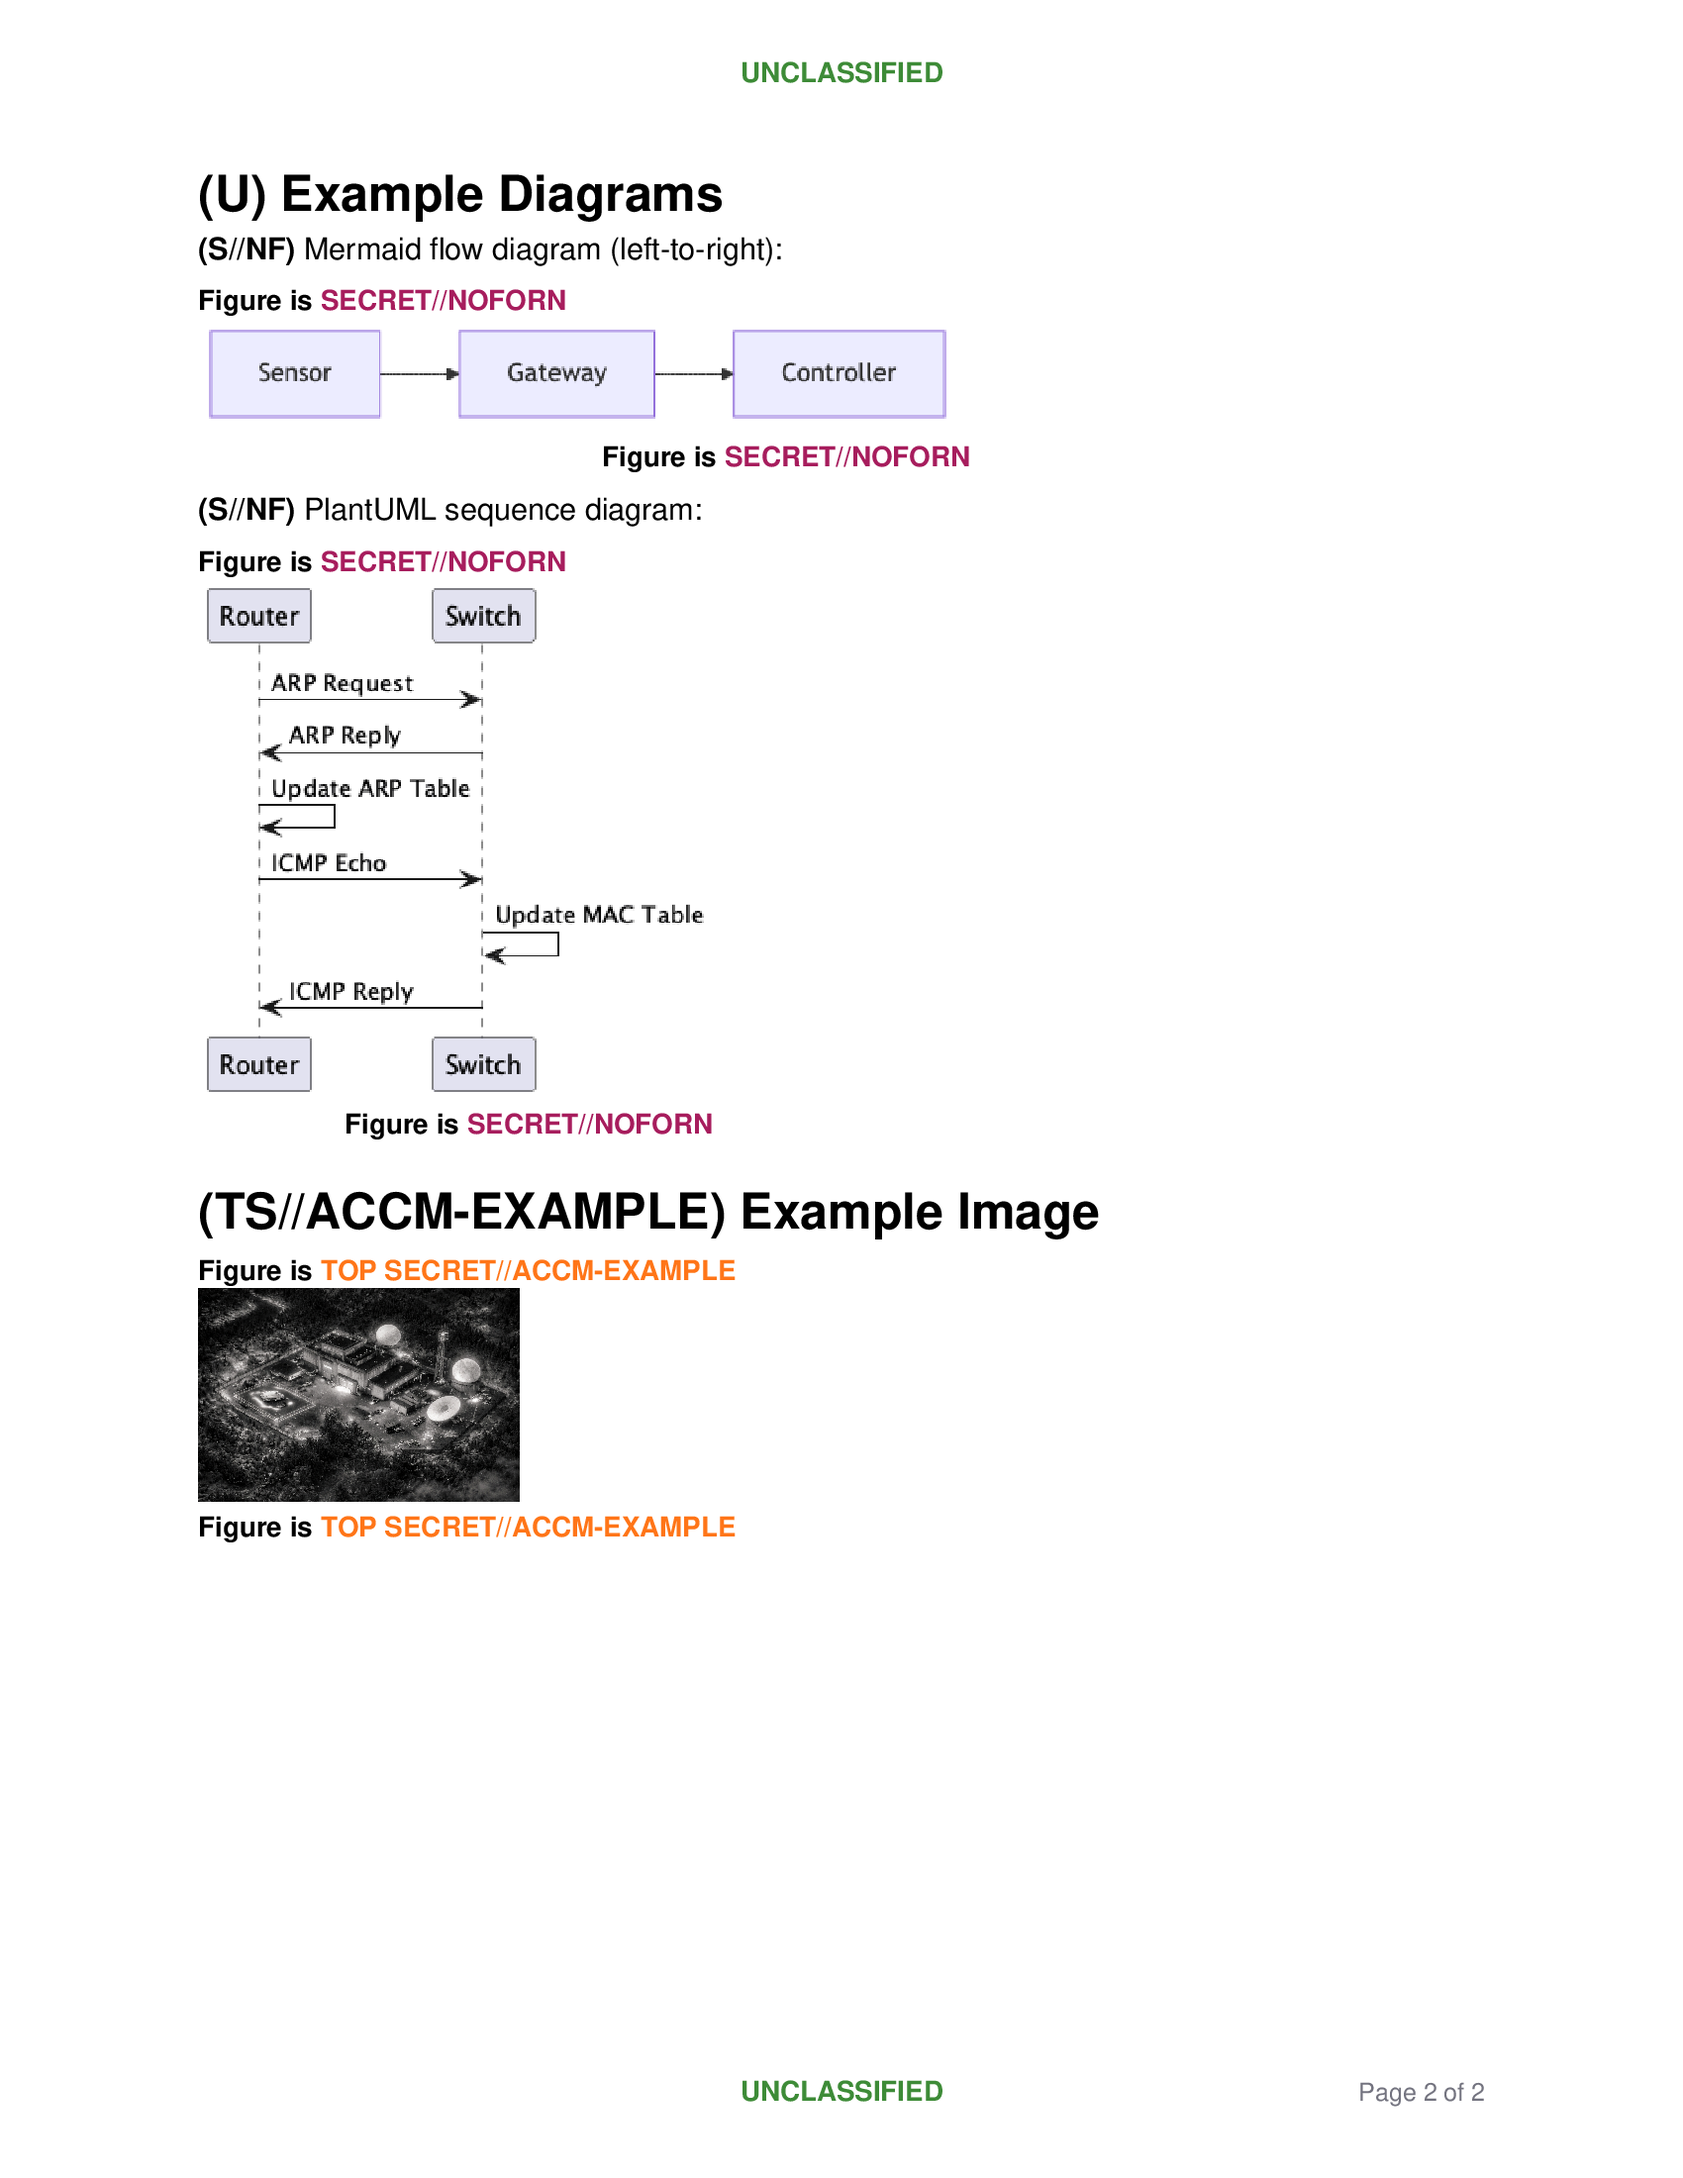
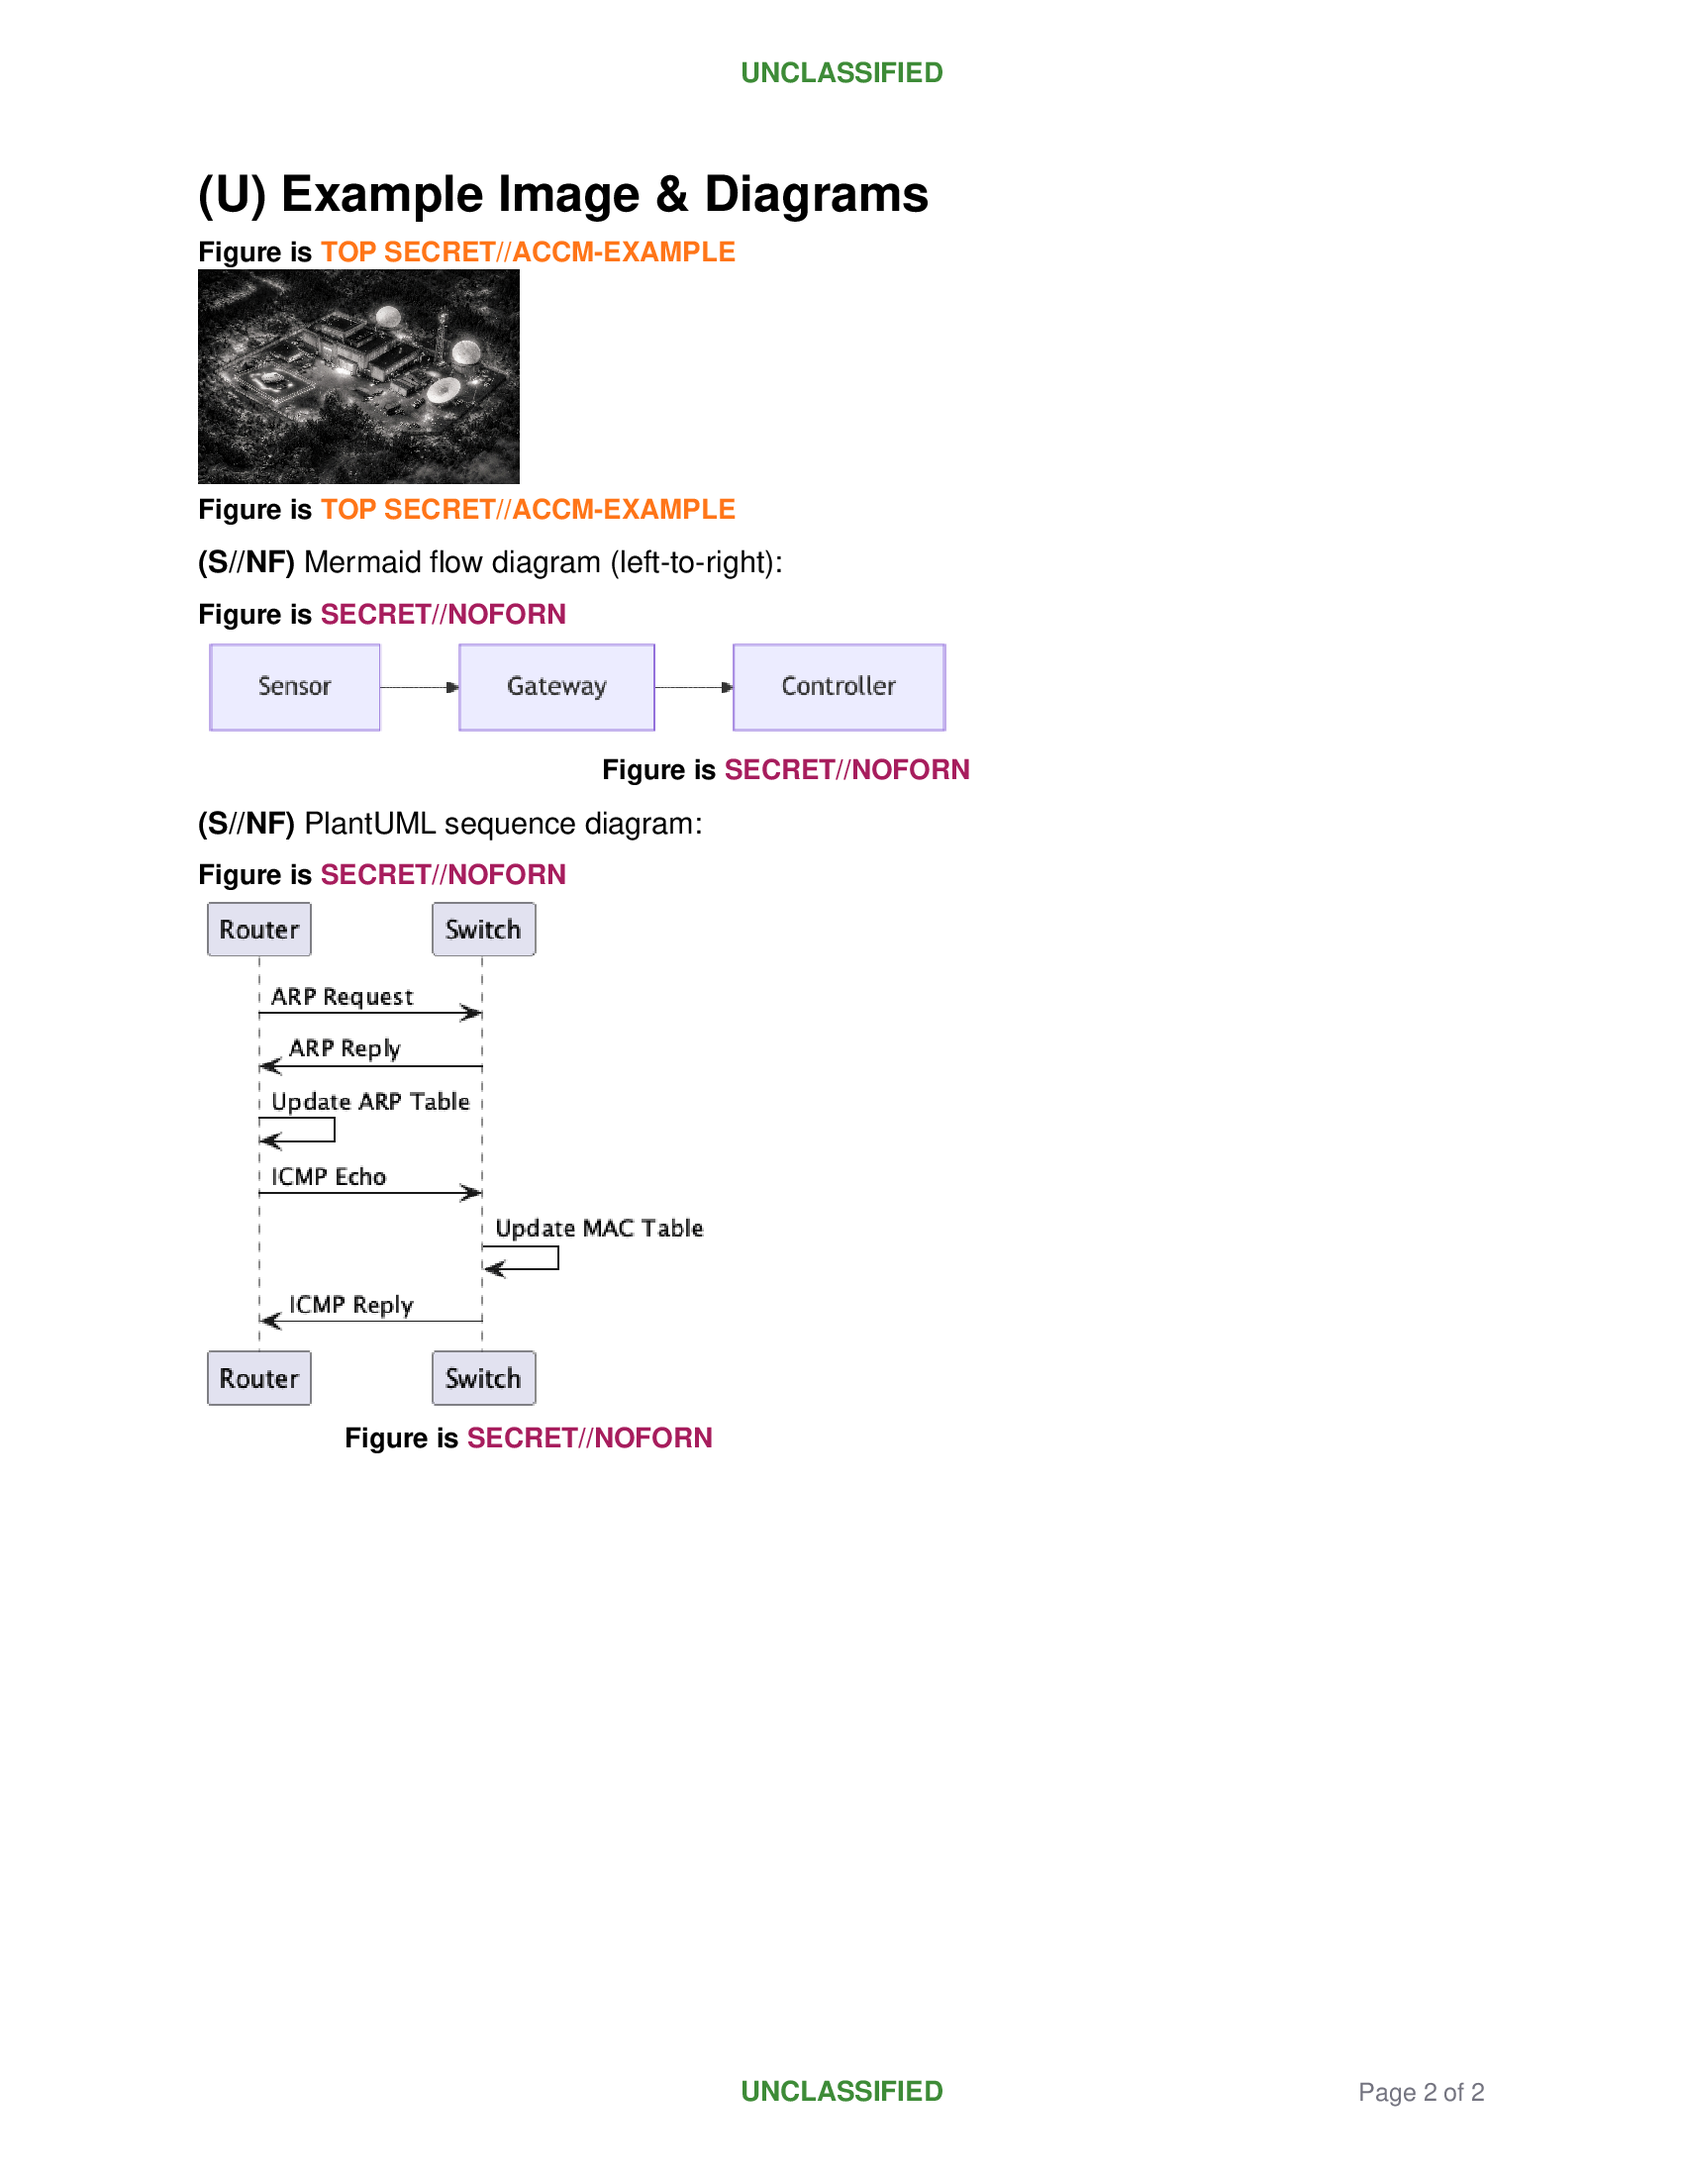
Add table-style borders around diagram images, move image before diagrams

Changed region(s): [[0.0935, 0.0618, 0.6547, 0.7109]]

diff --git a/vscode-portionmarkdown/src/md2pdf/layout.ts b/vscode-portionmarkdown/src/md2pdf/layout.ts
@@ -473,7 +473,17 @@ export function layout(
         y -= 3;
       }
 
-      pages[pages.length - 1].image(MARGIN, y - dispH, dispW, dispH, imgName);
+      const pg2 = pages[pages.length - 1];
+      pg2.image(MARGIN, y - dispH, dispW, dispH, imgName);
+
+      // Draw border around diagram images (preloaded __diagram_ sources)
+      if (imgSrc.startsWith("__diagram_")) {
+        pg2.line(MARGIN, y, MARGIN + dispW, y, 0.3, CLR_TBL_LINE);
+        pg2.line(MARGIN, y - dispH, MARGIN + dispW, y - dispH, 0.3, CLR_TBL_LINE);
+        pg2.line(MARGIN, y, MARGIN, y - dispH, 0.3, CLR_TBL_LINE);
+        pg2.line(MARGIN + dispW, y, MARGIN + dispW, y - dispH, 0.3, CLR_TBL_LINE);
+      }
+
       y -= dispH;
 
       if (pm) {

diff --git a/example.md b/example.md
@@ -98,7 +98,13 @@ This line has a `<br>` line break<br>right here in the middle.
 
 <pagebreak />
 
-## Example Diagrams
+## Example Image & Diagrams
+
+</div>
+
+<div marking="EXAMPLE" markdown="1">
+
+![Example image](img/ChatGPT%20Image%20Mar%208,%202026,%2005_22_55%20PM.png){ width=25% }
 
 </div>
 
@@ -115,13 +121,5 @@ Mermaid flow diagram (left-to-right):
 PlantUML sequence diagram:
 
 ![PlantUML sequence](img/plantuml-example.png){ width=40% }
-
-</div>
-
-<div marking="EXAMPLE" markdown="1">
-
-## Example Image
-
-![Example image](img/ChatGPT%20Image%20Mar%208,%202026,%2005_22_55%20PM.png){ width=25% }
 
 </div>
